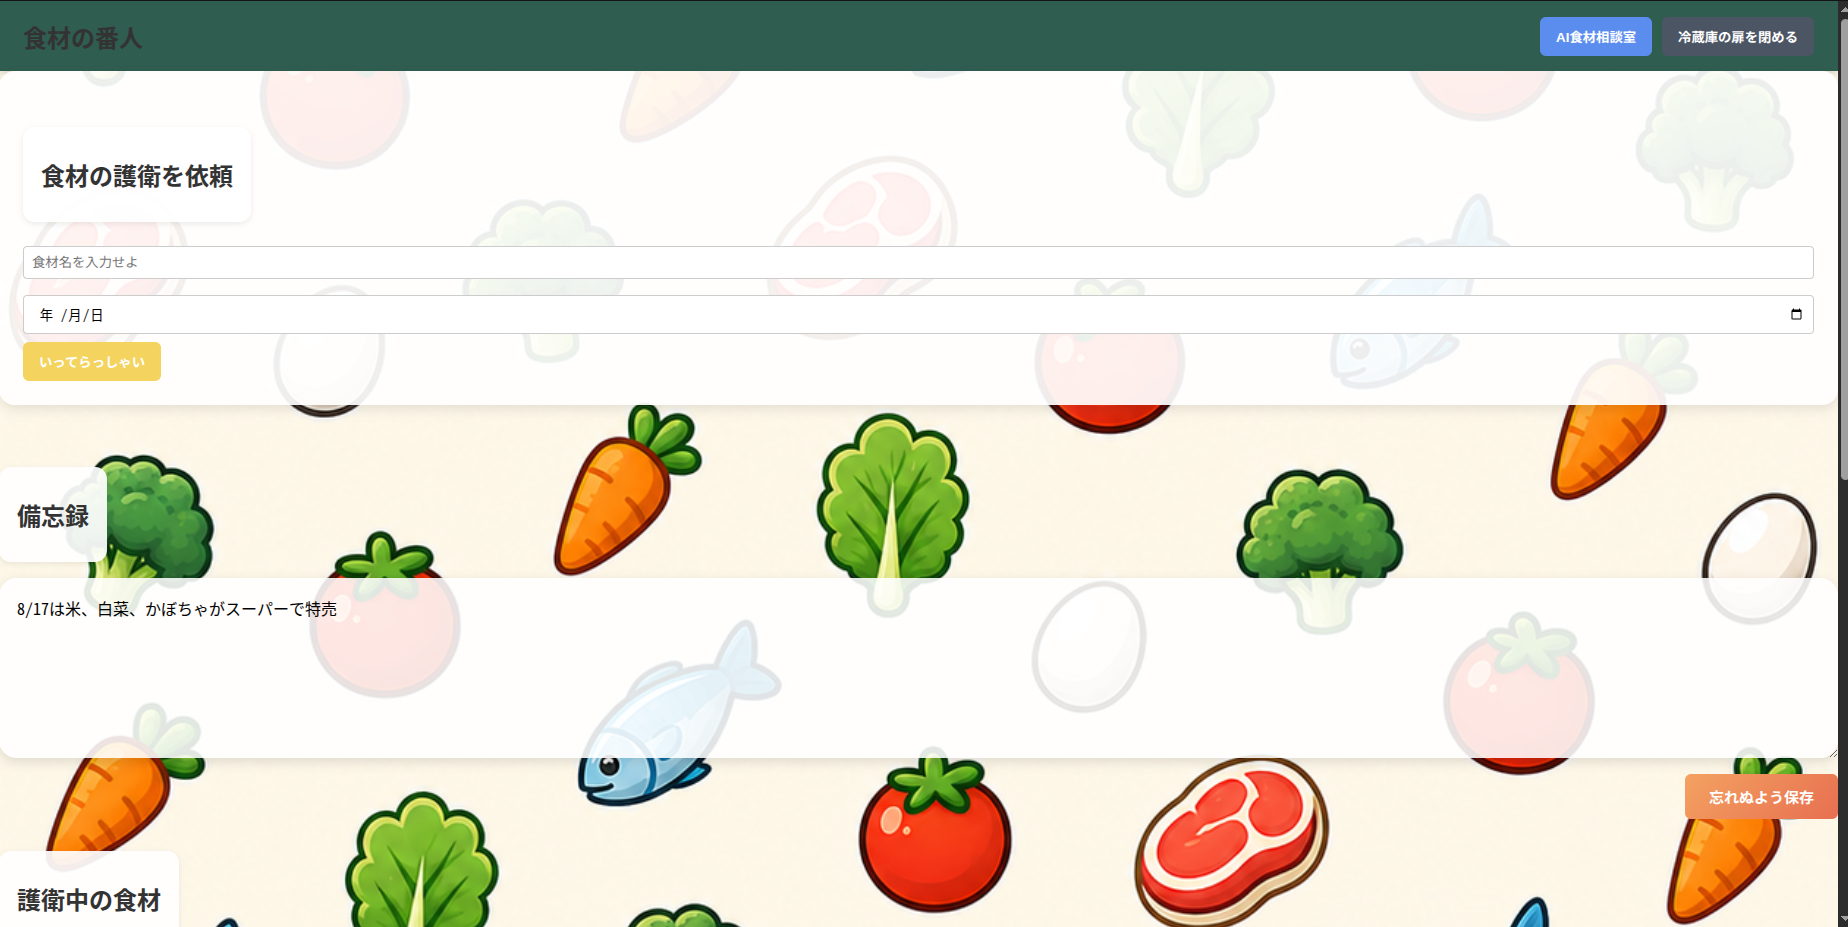
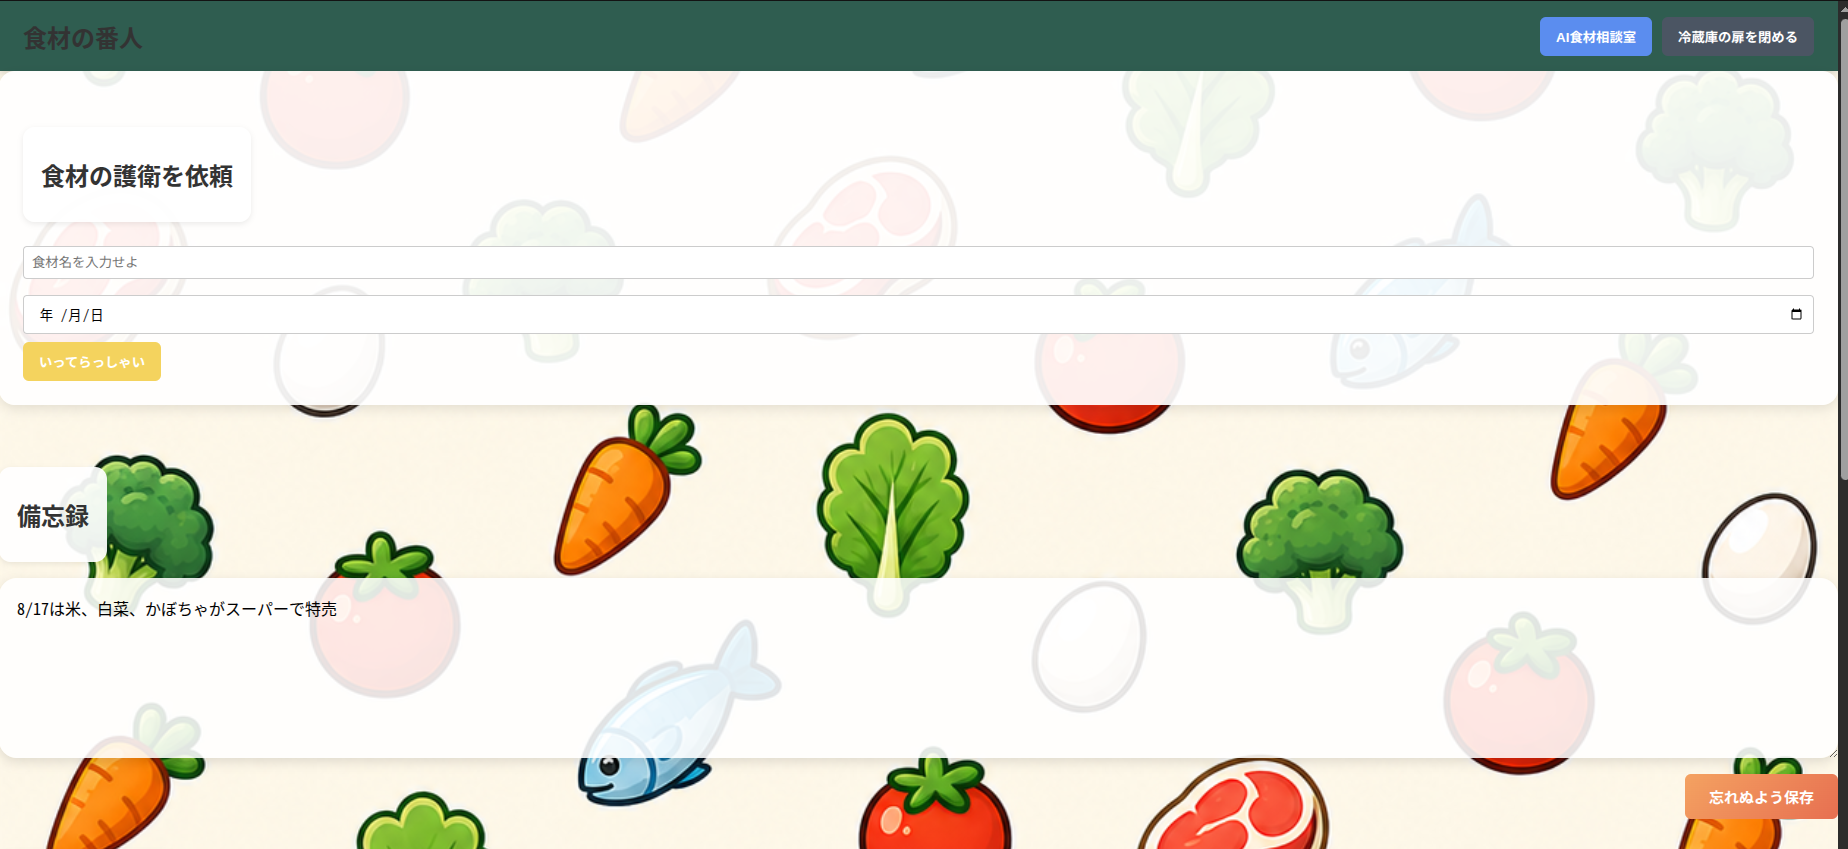
README.mdの編集

diff --git a/README.md b/README.md
@@ -171,3 +171,6 @@ npm start
 
 ### 4. アクセス
 http://localhost:3000
+
+### 備考
+* データベースについて、backend/db.sqlite3および必要なテーブルは、バックエンド起動時に自動作成されます。
